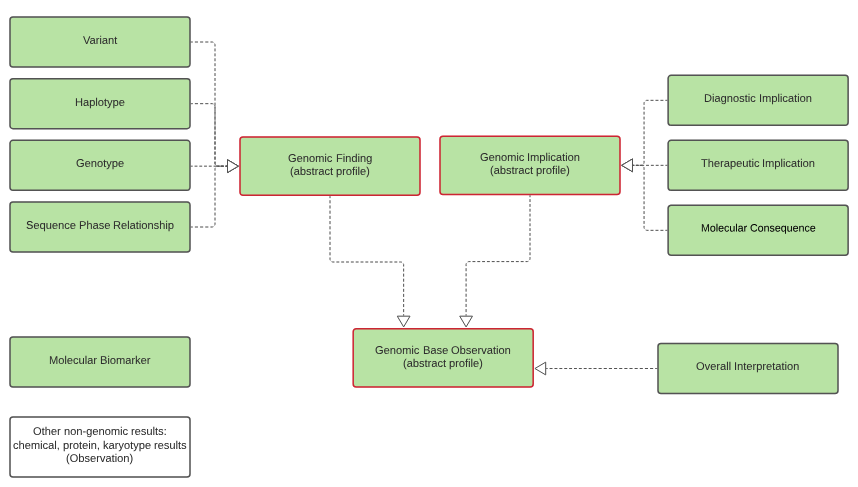
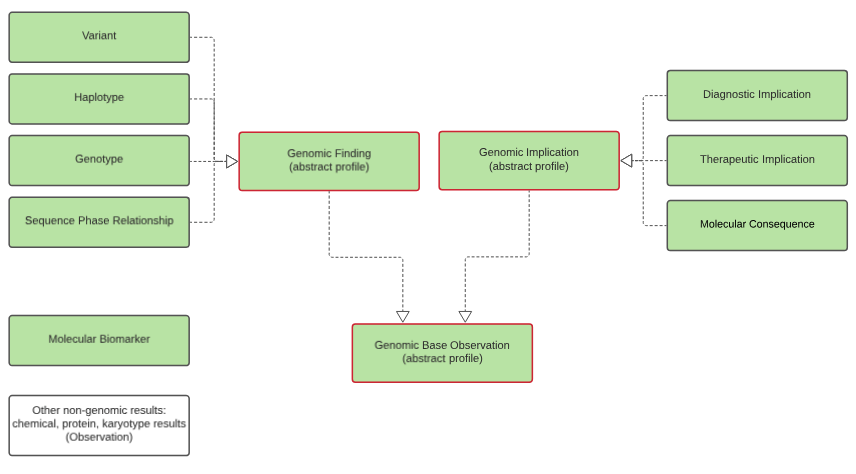
Remove OverallInterp profile and replace with DR.conclusion
FHIR-43691

Overall Interpretation seems odd, as the Observation only is used in GenomicReports. An Instance with “positive” doesn't stand for itself.

Point to GenomicReport.conclusionCode & conclusion instead.

diff --git a/input/pages/pharmacogenomics.md b/input/pages/pharmacogenomics.md
@@ -126,9 +126,8 @@ The following table contains additional information regarding the profiles used 
 
 | **_Profile_**                                                                     | **_Description of PGx usage_**                                                                                                                                                                                                                                                                                                                                                                                                                                                                                                                                                                                                                                                                                                                                                                                                  | **_Example links_**                                                                                                                                                                                                                                                                                                                                                                                                                                                                                                                                               | **_Example Notes_**                                                                                                                                                                                                                                                                                                                                                                                |
 | --------------------------------------------------------------------------------- | ------------------------------------------------------------------------------------------------------------------------------------------------------------------------------------------------------------------------------------------------------------------------------------------------------------------------------------------------------------------------------------------------------------------------------------------------------------------------------------------------------------------------------------------------------------------------------------------------------------------------------------------------------------------------------------------------------------------------------------------------------------------------------------------------------------------------------- | ----------------------------------------------------------------------------------------------------------------------------------------------------------------------------------------------------------------------------------------------------------------------------------------------------------------------------------------------------------------------------------------------------------------------------------------------------------------------------------------------------------------------------------------------------------------- | -------------------------------------------------------------------------------------------------------------------------------------------------------------------------------------------------------------------------------------------------------------------------------------------------------------------------------------------------------------------------------------------------- |
-| [Genomic Report](StructureDefinition-genomic-report-definitions.html)            | Intended to capture a single report, with a Code element aligning with a Service Request and multiple genomic result Observations. <br/> Not suitable for displaying summary information covering multiple reports. Extensions on DiagnosticReport can point to other reports.                                                                                                                                                                                                                                                                                                                                                                                                                                                                                                                                         | [#DiagnosticReport-PGxGenomicReportEMERGE.html](DiagnosticReport-PGxGenomicReportEMERGE.html)                                                                                                                                                                                                                                                                                                                                                                                                                                                                   | <!--Results may be on the report directly or referenced through grouping observations. -->This report has results directly referenced and one Overall Interpretation<!-- and 3 Observations used to group the PGX data into sections for viewing purposes. For an example without the grouping observations see [Emerge report without grouping](DiagnosticReport-PGxGenomicReportEMERGE.html)--> |
+| [Genomic Report](StructureDefinition-genomic-report-definitions.html)            | Intended to capture a single report, with a Code element aligning with a Service Request and multiple genomic result Observations. <br/> Not suitable for displaying summary information covering multiple reports. Extensions on DiagnosticReport can point to other reports.                                                                                                                                                                                                                                                                                                                                                                                                                                                                                                                                         | [#DiagnosticReport-PGxGenomicReportEMERGE.html](DiagnosticReport-PGxGenomicReportEMERGE.html)                                                                                                                                                                                                                                                                                                                                                                                                                                                                   | <!--Results may be on the report directly or referenced through grouping observations. -->This report has results directly referenced<!-- and 3 Observations used to group the PGX data into sections for viewing purposes. For an example without the grouping observations see [Emerge report without grouping](DiagnosticReport-PGxGenomicReportEMERGE.html)--> |
 | [Genomic Study](StructureDefinition-genomic-study.html)            | Describes the metadata about the study that was performed, including references to various analyses that were performed, and references to files created during the process. Will also create a reference describing metadata like the Regions Studied.                                                   |  [#Procedure-PGXGenomicStudy.html](Procedure-PGXGenomicStudy.html)                                                                                                                                                                                                                                                                                                                                                                                                                                                                                | A simple example of a Genomic Study profile for a PGX panel. |
-| [Overall genomic Interpretation](StructureDefinition-overall-interpretation.html) | High-level observations of the result of the genomic testing, at the diagnostic report level. This is a flag often found as a statement in a report. For example, a report might begin ‘Positive - pathogenic variant found’ if a single pathogenic variant was found. The ‘positive’ trigger word in this statement is what would be captured. Again this is similar to a flag for an abnormal result found in laboratory messages. There is a new Observation component ‘conclusion-string’ which has been proposed to mirror the conclusion-string attribute on the DiagnosticReport, if additional detail is needed. One also has the option to use DiagnosticReport.text to provide overall information, but the ‘.text’ component would not call-out the conclusion.                                                     | [#Observation-OverallInterpExample2.html](Observation-OverallInterpExample2.html)                                                                                                                                                                                                                                                                                                                                                                                                                                                                                 | This example summarizes the potentially actionable results of the report. Codes should align with what is expected from the report’s ServiceRequest.                                                                                                                                                                                                                                               |
 | [Genotype](StructureDefinition-genotype.html)                                     | Connects haplotype or variant observations for homologous positions in the genome, or sets of homologous positions. In practice, it takes the capability of performing bioinformatic calculations to normalize across variant data to bring genotypes together. Genotype allows the sender to communicate a relationship between variant observations without the recipient needing to calculate the relationship.                                                                                                                                                                                                                                                                                                                                                                                                                           | [#Observation-Pgx-geno-1001.html](Observation-Pgx-geno-1001.html) <br/> [#Observation-Pgx-geno-1002.html](Observation-Pgx-geno-1002.html) <br/> [#Observation-Pgx-geno-1003.html](Observation-Pgx-geno-1003.html)                                                                                                                                                                                                                                                                                                                                                 | Genotype names such as star-alleles can appear in PGx reports either with or without a full description of the underlying coded haplotypes and observed variants. Genotype names MAY be coded, but will oftentimes be textual descriptions only. PGx guidance is often available at the level of these genotypes.                                                                                                                                                                                      |
 | [Haplotype](StructureDefinition-haplotype.html)                                     | Connects variant observations for changes in the same chromosome. In practice, it takes the capability of performing bioinformatic calculations to normalize across variant data to bring haplotypes together. Haplotype allows the sender to communicate a relationship between variant observations without the recipient needing to calculate the relationship.                                                                                                                                                                                                                                                                                                                                                                                                                           | (examples TBD)                                                                                                                                                                                                                                                                                                                                               | Haplotype names will be star-alleles and can appear in PGx reports either with or without a full description of the underlying observed variants. Haplotype names SHOULD be coded values. PGx guidance is often available at the level of genotypes (diplotypes).                                                                                                                                                                                      |
 | [Variant](StructureDefinition-variant.html)                                       | Intended for communication of positional information derived from the patient’s sample. The data should be suitable for calculations involving variant level details, such as clinical decision support or presence of a specific variant in a patient. Variant also carries important observational information about the occurrence of the variant in the patient/sample, and some pre-coordinated annotations such as gene name. More complex annotations such as pathogenicity should use the DiagnosticImplication profile for additional structure.<br/>Not all variants observed in a patient’s sample are required to be included in a report.                                                                                                                                                                          | [#Observation-Pgx-var-1011.html](Observation-Pgx-var-1011.html)<br/>[#Observation-Pgx-var-1012.html](Observation-Pgx-var-1012.html) <br/>[#Observation-Pgx-var-1013.html](Observation-Pgx-var-1013.html) <br/>[#Observation-Pgx-var-1014.html](Observation-Pgx-var-1014.html) <br/>[#Observation-Pgx-var-1015.html](Observation-Pgx-var-1015.html) <br/>[#Observation-Pgx-var-1016.html](Observation-Pgx-var-1016.html) <br/>[#Observation-Pgx-var-1017.html](Observation-Pgx-var-1017.html) <br/>[#Observation-Pgx-var-1018.html](Observation-Pgx-var-1018.html) | In this example, variants are represented primarily using HGVS, with an Observation value of ‘Present’. This provides a computable observation of change, position in a reference sequence. <br/> Other components could be used to “define” the variant in question, for example ClinVar codes or a VCF column-like representation as seen in other examples.                                     |
